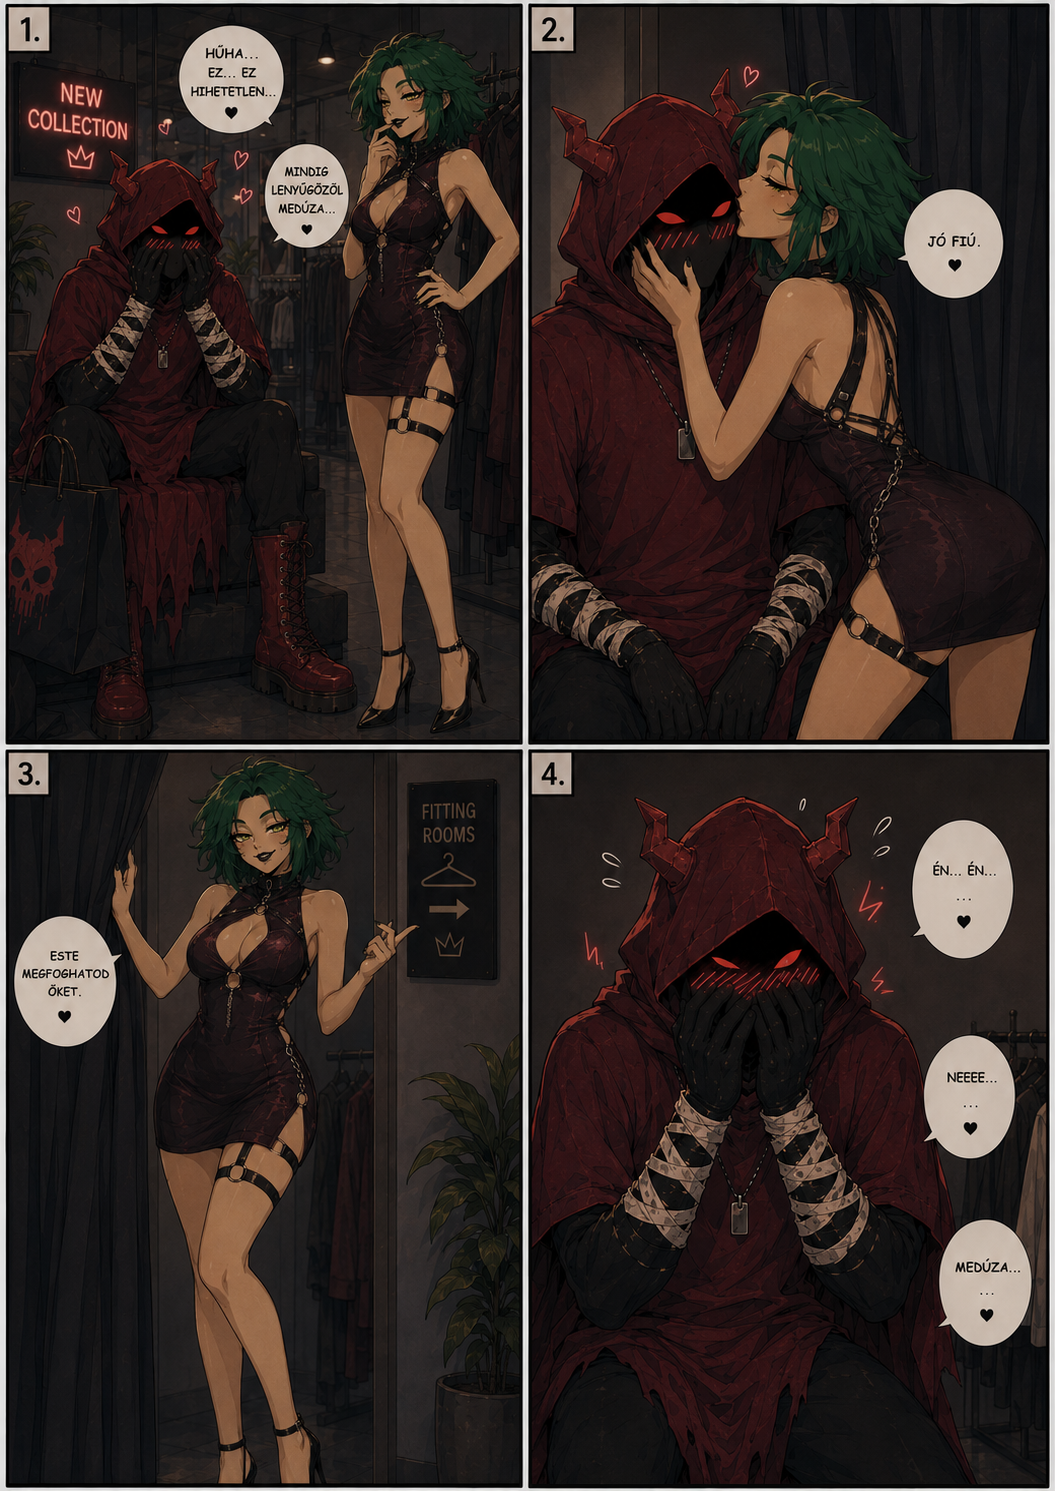
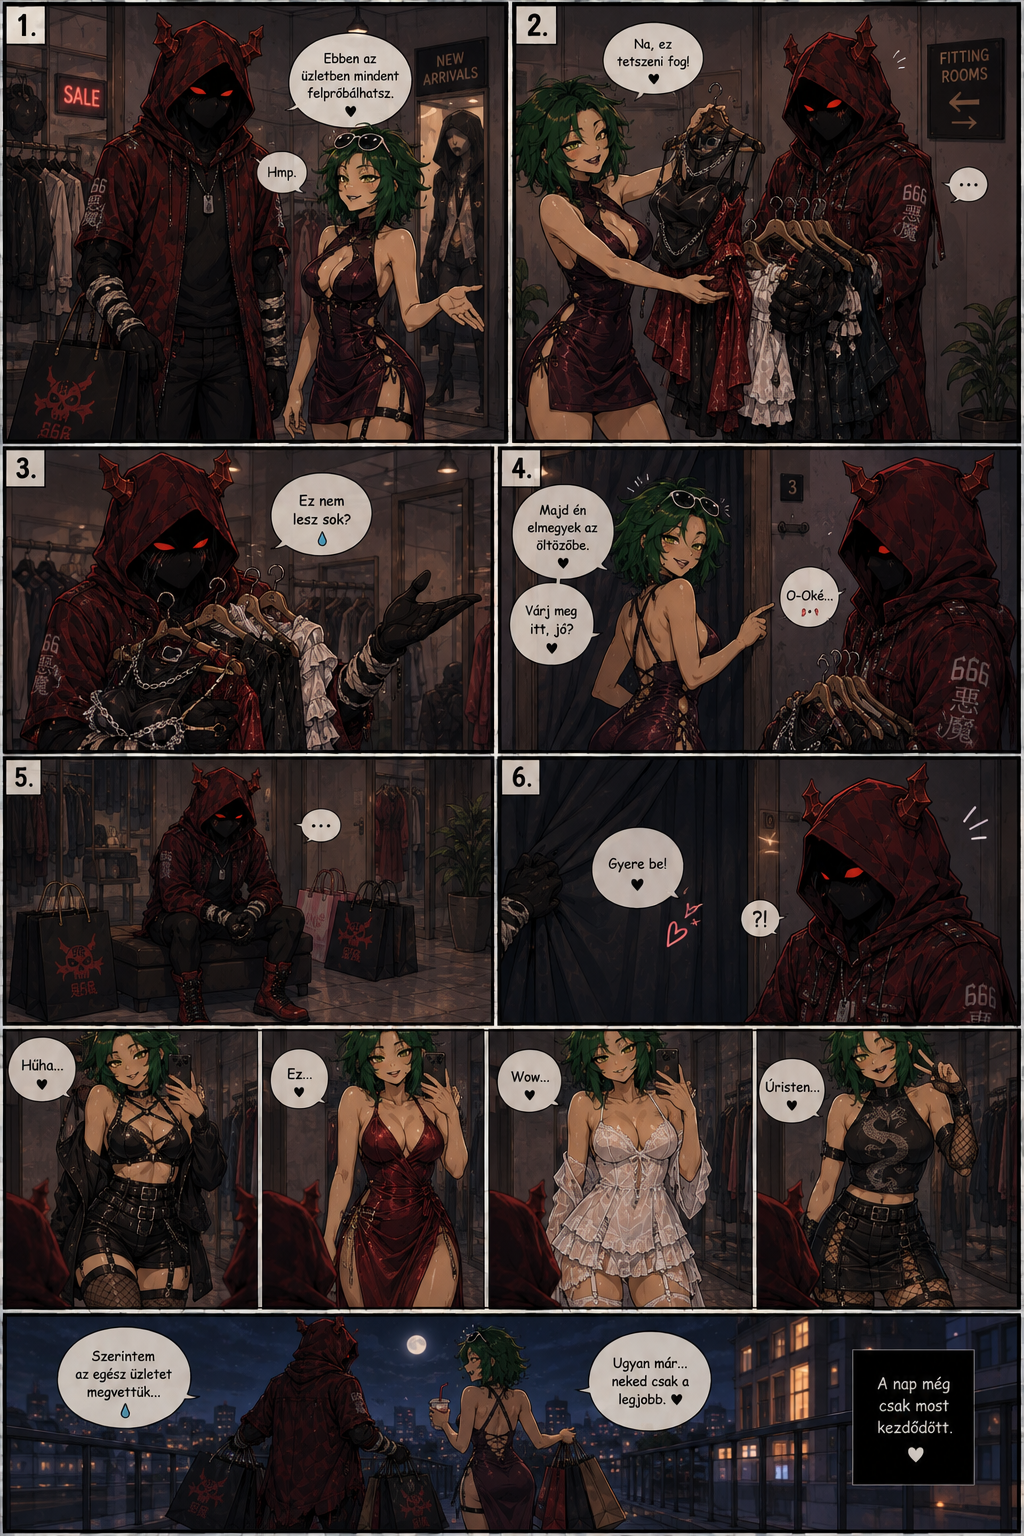
more more

diff --git a/kepregeny.html b/kepregeny.html
@@ -224,7 +224,8 @@ const comics = {
             "kepek/summervacation.webp",
             "kepek/beach1.webp",
             "kepek/beach2.webp",
-            "kepek/beach3.webp"
+            "kepek/beach3.webp",
+            "kepek/beach4.webp"
         ]
     },
 
